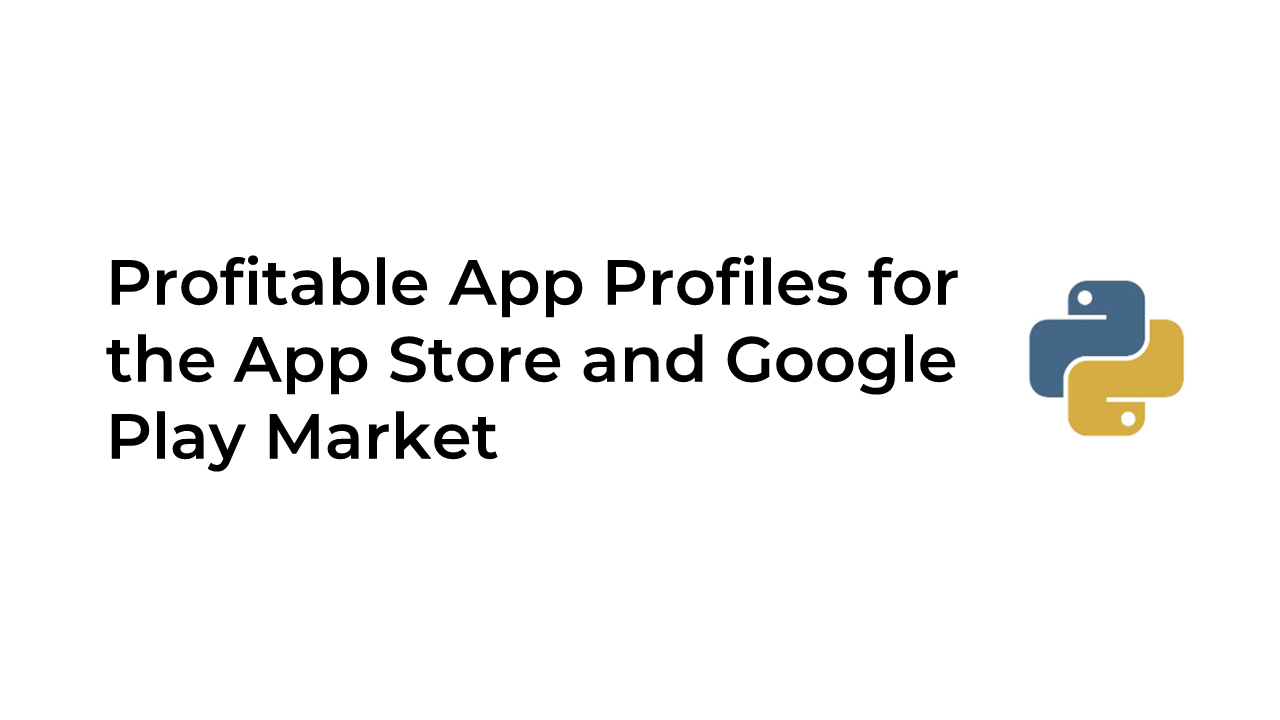
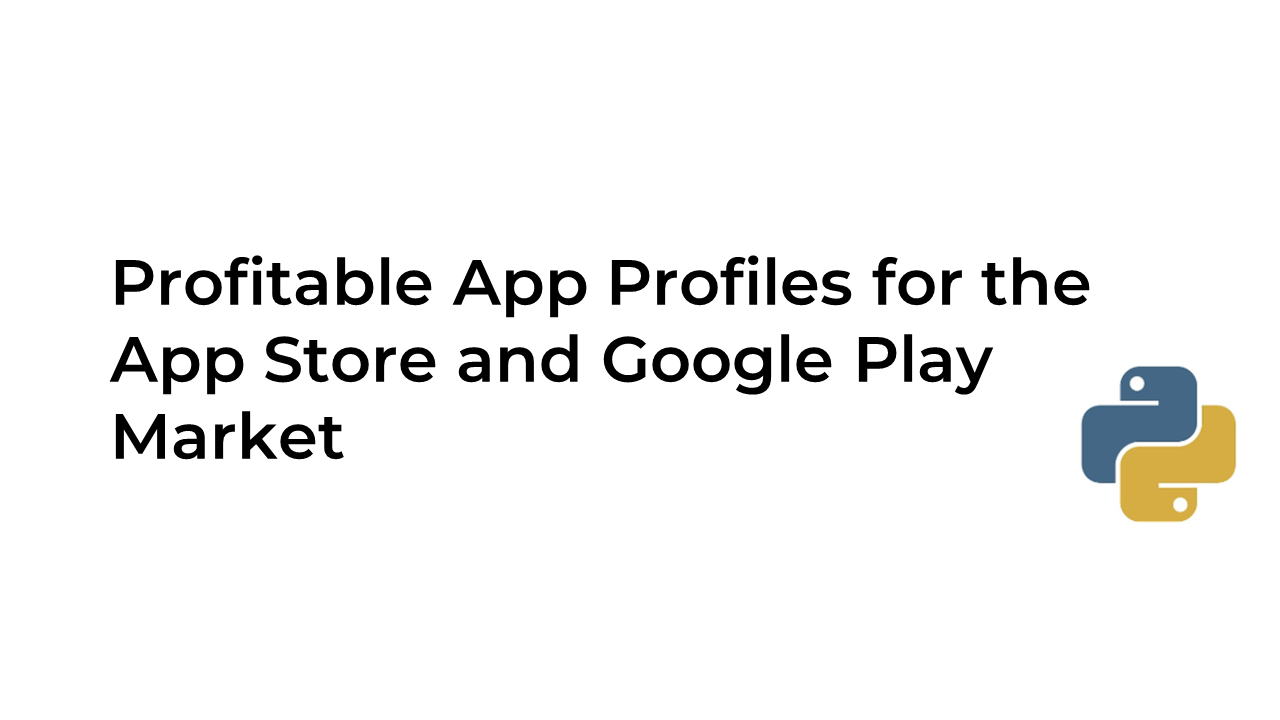
Add files via upload

Changed region(s): [[0.0625, 0.3361, 0.9688, 0.7333], [0.0625, 0.55, 0.4062, 0.6722]]

diff --git a/index.html b/index.html
@@ -84,7 +84,7 @@
 							</article>
 							
 							<article class="col-6 col-12-xsmall work-item">
-								<a href="https://github.com/matt-heyda/Profitable-App-Profiles-for-the-App-Store-and-Google-Play-Market/blob/main/Profitable%20App%20Profiles%20for%20the%20App%20Store%20and%20Google%20Play%20Markets.ipynb" class="image fit thumb"><img src="images/profitable app TEST.png" alt="" /></a>
+								<a href="https://github.com/matt-heyda/Profitable-App-Profiles-for-the-App-Store-and-Google-Play-Market/blob/main/Profitable%20App%20Profiles%20for%20the%20App%20Store%20and%20Google%20Play%20Markets.ipynb" class="image fit thumb"><img src="images/profitable app.png" alt="" /></a>
 								
 								<p>This Jupyter Notebook project contains an analysis of Android and iOS mobile apps using datasets found on Kaggle. It attempts to understand what type of apps are likely to attract more users, to assist a hypothetical company in deciding on which apps to develop within these markets.</p>
 								
